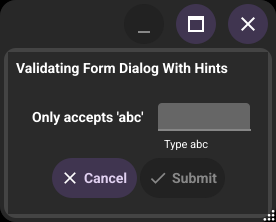
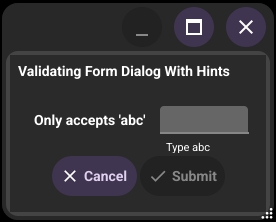
widget: a modal pop-up keeps its content above an on-screen keyboard (#654)
A dialog whose field opened the keyboard kept its place, its buttons
under the keyboard. A phone canvas reports the keyboard as a taller
bottom inset and calls Refresh on its pop-ups, but a modal pop-up laid
itself out against the whole canvas, and only again when its own size
changed.

Content with no explicit position is still centred on the canvas, then
moved the least distance that keeps it inside the canvas's interactive
area, and shrunk to fit there. The area is re-read on Refresh, so the
dialog moves up when the keyboard opens and back when it closes.
Content placed with Move keeps its position and canvas clamp: a
navigation drawer deliberately covers the whole edge (#608).

On desktop the interactive area is the whole canvas, so nothing moves.
The test canvas reports a few pixels of inset, so the size tests now
read the area, and the dialog images whose dialog fills its window, 4
desktop and 12 mobile (where dialogs span the width), moved 2-3 px and
shrank to fit inside it.

TestModalPopUp_StaysAboveTheKeyboard fails on main: the dialog's
bottom stays at 400 while the keyboard starts at 284.

diff --git a/widget/popup.go b/widget/popup.go
@@ -285,9 +285,9 @@ func (p *PopUp) CreateRenderer() core.WidgetRenderer {
 		underlay := canvas.NewRectangle(th.Color(theme.ColorNameScrim, v))
 		objects := []core.CanvasObject{underlay, background, p.Content}
 		return &modalPopUpRenderer{
-			widget.NewShadowingRenderer(objects, widget.DialogLevel),
-			popUpBaseRenderer{popUp: p, background: background},
-			underlay,
+			ShadowingRenderer: widget.NewShadowingRenderer(objects, widget.DialogLevel),
+			popUpBaseRenderer: popUpBaseRenderer{popUp: p, background: background},
+			underlay:          underlay,
 		}
 	}
 	objects := []core.CanvasObject{background, p.Content}
@@ -462,25 +462,38 @@ type modalPopUpRenderer struct {
 	*widget.ShadowingRenderer
 	popUpBaseRenderer
 	underlay *canvas.Rectangle
+
+	// The canvas's interactive area at the last layout. It shrinks when a
+	// mobile keyboard opens, and the content is laid out again inside it.
+	areaPos  geo.Position
+	areaSize geo.Size
 }
 
+// Layout covers the canvas with the scrim and places the content. Content
+// with no explicit position is centred on the canvas and then kept inside the
+// canvas's interactive area, the part not under a notch, a system bar or an
+// on-screen keyboard: a dialog moves up above the keyboard its own field
+// opened, and shrinks to fit there (#654). Content placed with Move, such as
+// a navigation drawer that covers the whole edge, keeps its position.
 func (r *modalPopUpRenderer) Layout(canvasSize geo.Size) {
 	r.underlay.Resize(canvasSize)
+	r.areaPos, r.areaSize = r.popUp.Canvas.InteractiveArea()
 
 	padding := r.padding()
 	innerSize := r.popUp.innerSize.Max(r.popUp.Content.MinSize().Add(padding))
 
 	requestedSize := innerSize.Subtract(padding)
 	size := r.popUp.Content.MinSize().Max(requestedSize)
-	size = size.Min(canvasSize.Subtract(padding))
 
 	var pos geo.Position
 	if r.popUp.innerPosMoved {
 		// Explicit position requested via Move/ShowAtPosition.
+		size = size.Min(canvasSize.Subtract(padding))
 		pos = r.popUp.innerPos.Add(r.offset())
 	} else {
-		// Default: center the content.
+		size = size.Min(r.areaSize.Subtract(padding))
 		pos = geo.NewPos((canvasSize.Width-size.Width)/2, (canvasSize.Height-size.Height)/2)
+		pos = keepInside(pos, size, r.areaPos.Add(r.offset()), r.areaSize.Subtract(padding))
 	}
 	r.popUp.Content.Move(pos)
 	r.popUp.Content.Resize(size)
@@ -489,6 +502,18 @@ func (r *modalPopUpRenderer) Layout(canvasSize geo.Size) {
 	r.background.Move(innerPos)
 	r.background.Resize(size.Add(padding))
 	r.LayoutShadow(innerSize, innerPos)
+}
+
+// keepInside moves a box of size at pos the least distance that puts it inside
+// the area at areaPos of areaSize, which is at least as big.
+func keepInside(pos geo.Position, size geo.Size, areaPos geo.Position, areaSize geo.Size) geo.Position {
+	clamp := func(v, lo, extent, length float32) float32 {
+		return max(lo, min(v, lo+extent-length))
+	}
+	return geo.NewPos(
+		clamp(pos.X, areaPos.X, areaSize.Width, size.Width),
+		clamp(pos.Y, areaPos.Y, areaSize.Height, size.Height),
+	)
 }
 
 func (r *modalPopUpRenderer) MinSize() geo.Size {
@@ -513,6 +538,9 @@ func (r *modalPopUpRenderer) Refresh() {
 	r.background.CornerRadius = th.Size(theme.SizeNameShapeLarge)
 	expectedContentSize := r.popUp.innerSize.Max(r.popUp.MinSize()).Subtract(r.padding())
 	shouldLayout := r.popUp.Content.Size() != expectedContentSize
+	if areaPos, areaSize := r.popUp.Canvas.InteractiveArea(); areaPos != r.areaPos || areaSize != r.areaSize {
+		shouldLayout = true // a keyboard opened or closed
+	}
 
 	if r.background.Size() != r.popUp.innerSize || r.background.Position() != r.popUp.innerPos || shouldLayout {
 		r.Layout(r.popUp.Size())

diff --git a/widget/popup_keyboard_internal_test.go b/widget/popup_keyboard_internal_test.go
@@ -1,0 +1,44 @@
+package widget
+
+import (
+	"testing"
+
+	"github.com/stretchr/testify/assert"
+
+	"github.com/belluikit/bellui/geo"
+	"github.com/belluikit/bellui/test"
+)
+
+// A dialog moves up above an on-screen keyboard, which a phone canvas reports
+// as a taller bottom inset, and back when the keyboard closes. It stayed where
+// it was, its buttons under the keyboard its own field had opened (#654).
+func TestModalPopUp_StaysAboveTheKeyboard(t *testing.T) {
+	test.NewTempApp(t)
+	w := test.NewTempWindow(t, NewLabel("content"))
+	w.Resize(geo.NewSize(400, 600))
+	c := &insetCanvas{Canvas: w.Canvas(), top: 24, bottom: 16}
+
+	pop := NewModalPopUp(NewLabel("dialog"), c)
+	pop.Resize(geo.NewSize(300, 200))
+	pop.Show()
+	defer pop.Hide()
+	bg := func() (top, bottom float32) {
+		r := test.TempWidgetRenderer(t, pop).(*modalPopUpRenderer)
+		return r.background.Position().Y, r.background.Position().Y + r.background.Size().Height
+	}
+	centred := pop.Content.Position()
+	if top, bottom := bg(); top != 200 || bottom != 400 {
+		t.Fatalf("without a keyboard the dialog spans %v-%v, want it centred at 200-400", top, bottom)
+	}
+
+	c.bottom = 16 + 300 // the keyboard opens
+	pop.Refresh()       // what the mobile canvas does when an inset changes
+	areaPos, area := c.InteractiveArea()
+	top, bottom := bg()
+	assert.LessOrEqual(t, bottom, areaPos.Y+area.Height, "the dialog's bottom edge, its buttons, is under the keyboard")
+	assert.GreaterOrEqual(t, top, areaPos.Y, "the dialog moved up under the status bar")
+
+	c.bottom = 16 // the keyboard closes
+	pop.Refresh()
+	assert.Equal(t, centred, pop.Content.Position(), "the dialog did not return to the centre")
+}

diff --git a/dialog/file_test.go b/dialog/file_test.go
@@ -146,10 +146,13 @@ func TestFileDialogResize(t *testing.T) {
 	file.Resize(size)
 	expectedWidth = 600                                          // since win width only 600
 	assert.Equal(t, expectedWidth, file.dialog.win.Size().Width) // max, also work
-	assert.Equal(t, expectedWidth, file.dialog.win.Content.Size().Width+theme.Padding()*2)
+	// The content stays inside the canvas's interactive area, which the test
+	// canvas reports a few pixels smaller than the canvas (#654).
+	_, area := win.Canvas().InteractiveArea()
+	assert.Equal(t, area.Width, file.dialog.win.Content.Size().Width+theme.Padding()*2)
 	expectedHeight = 400                                           // since win height only 400
 	assert.Equal(t, expectedHeight, file.dialog.win.Size().Height) // max, also work
-	assert.Equal(t, expectedHeight, file.dialog.win.Content.Size().Height+theme.Padding()*2)
+	assert.Equal(t, area.Height, file.dialog.win.Content.Size().Height+theme.Padding()*2)
 
 	// Test again - extreme small size
 	size = geo.NewSize(1, 1)

diff --git a/dialog/confirm_test.go b/dialog/confirm_test.go
@@ -103,10 +103,13 @@ func TestConfirmDialog_Resize(t *testing.T) {
 	theDialog.Resize(size)
 	expectedWidth = 600                                        // since win width only 600
 	assert.Equal(t, expectedWidth, theDialog.win.Size().Width) // max, also work
-	assert.Equal(t, expectedWidth, theDialog.win.Content.Size().Width+theme.Padding()*2)
+	// The content stays inside the canvas's interactive area, which the test
+	// canvas reports a few pixels smaller than the canvas (#654).
+	_, area := window.Canvas().InteractiveArea()
+	assert.Equal(t, area.Width, theDialog.win.Content.Size().Width+theme.Padding()*2)
 	expectedHeight = 400                                         // since win height only 400
 	assert.Equal(t, expectedHeight, theDialog.win.Size().Height) // max, also work
-	assert.Equal(t, expectedHeight, theDialog.win.Content.Size().Height+theme.Padding()*2)
+	assert.Equal(t, area.Height, theDialog.win.Content.Size().Height+theme.Padding()*2)
 
 	// Test again - extreme small size
 	size = geo.NewSize(1, 1)

diff --git a/dialog/information_test.go b/dialog/information_test.go
@@ -52,10 +52,13 @@ func TestDialog_Resize(t *testing.T) {
 	theDialog.Resize(size)
 	expectedWidth = 600                                        // since win width only 600
 	assert.Equal(t, expectedWidth, theDialog.win.Size().Width) // max, also work
-	assert.Equal(t, expectedWidth, theDialog.win.Content.Size().Width+theme.Padding()*2)
+	// The content stays inside the canvas's interactive area, which the test
+	// canvas reports a few pixels smaller than the canvas (#654).
+	_, area := window.Canvas().InteractiveArea()
+	assert.Equal(t, area.Width, theDialog.win.Content.Size().Width+theme.Padding()*2)
 	expectedHeight = 400                                         // since win height only 400
 	assert.Equal(t, expectedHeight, theDialog.win.Size().Height) // max, also work
-	assert.Equal(t, expectedHeight, theDialog.win.Content.Size().Height+theme.Padding()*2)
+	assert.Equal(t, area.Height, theDialog.win.Content.Size().Height+theme.Padding()*2)
 
 	// Test again - extreme small size
 	size = geo.NewSize(1, 1)

diff --git a/widget/popup_test.go b/widget/popup_test.go
@@ -470,8 +470,11 @@ func TestModalPopUp_Resize_Constrained(t *testing.T) {
 	pop := NewModalPopUp(label, win.Canvas())
 
 	pop.Resize(geo.NewSize(90, 100))
-	assert.Equal(t, 80-theme.InnerPadding(), pop.Content.Size().Width)
-	assert.Equal(t, 80-theme.InnerPadding(), pop.Content.Size().Height)
+	// The content stays inside the canvas's interactive area, which the test
+	// canvas reports a few pixels smaller than the canvas (#654).
+	_, area := win.Canvas().InteractiveArea()
+	assert.Equal(t, area.Width-theme.InnerPadding(), pop.Content.Size().Width)
+	assert.Equal(t, area.Height-theme.InnerPadding(), pop.Content.Size().Height)
 	assert.Equal(t, float32(80), pop.Size().Width)
 	assert.Equal(t, float32(80), pop.Size().Height)
 }
